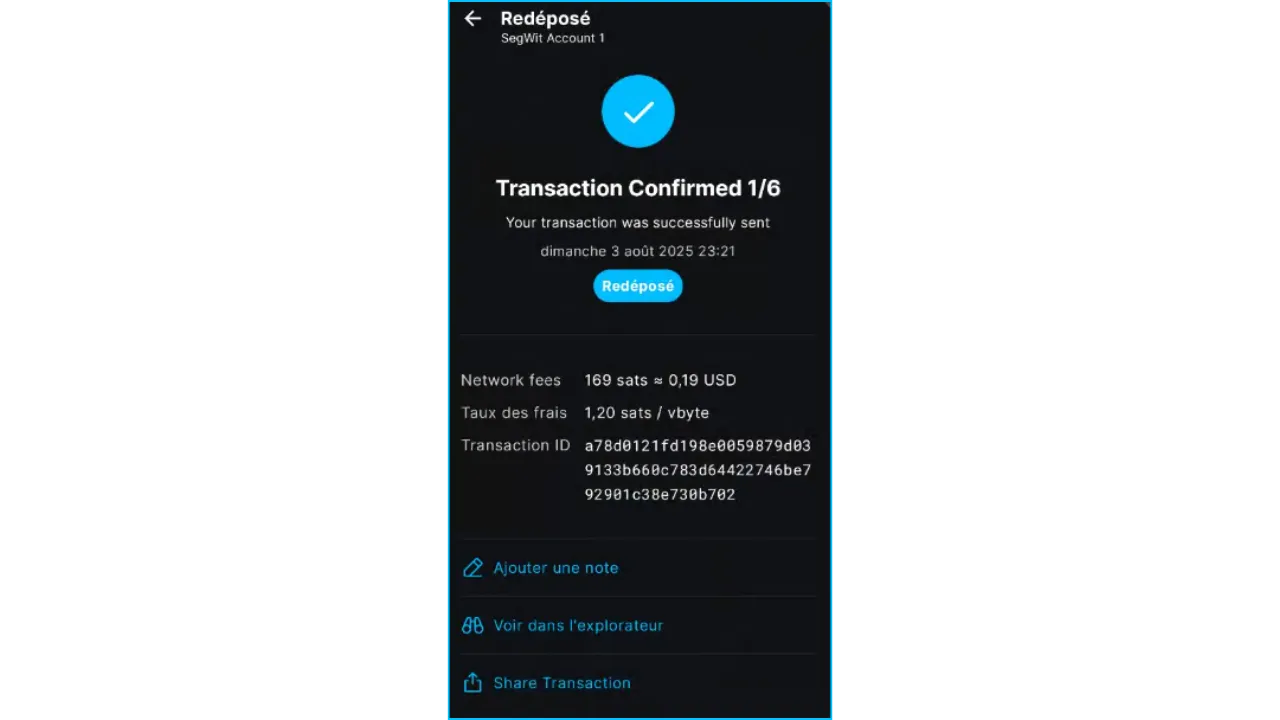
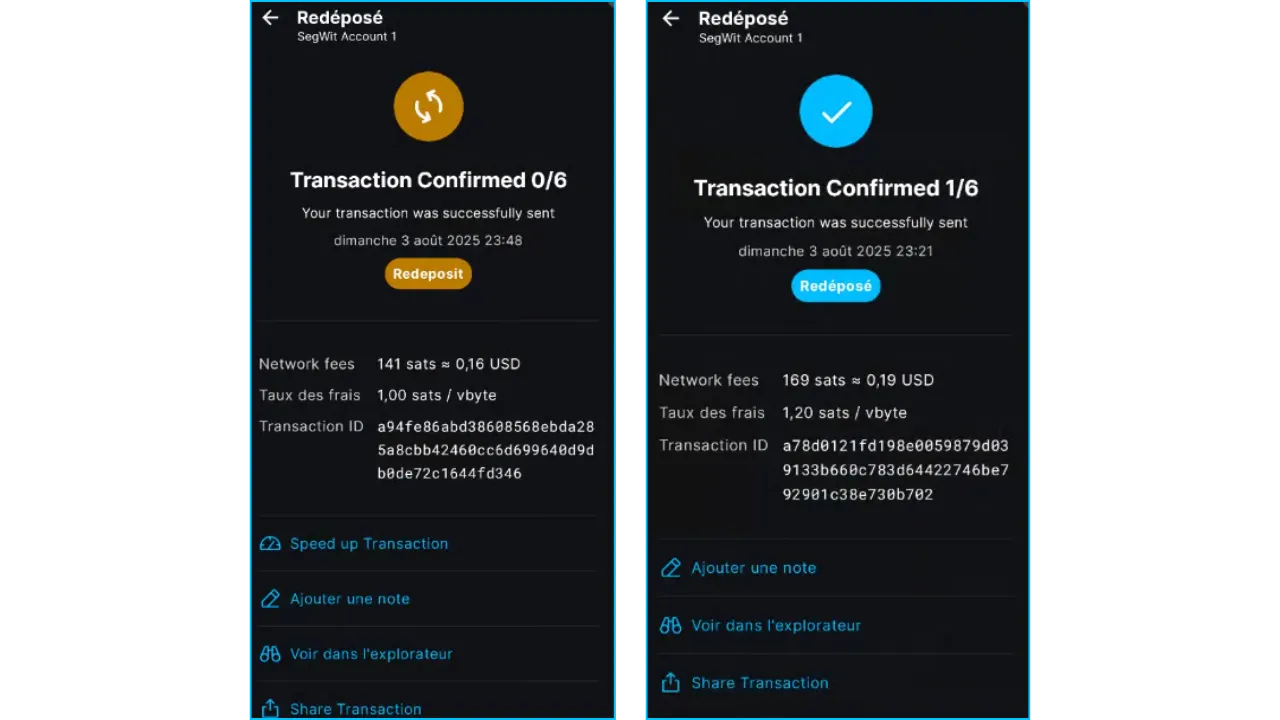
blockstream - onchain

diff --git a/tutorials/wallet/blockstream-onchain/fr.md b/tutorials/wallet/blockstream-onchain/fr.md
@@ -35,8 +35,8 @@ description: Configurer Blockstream Mobile et gérer les transactions onchain
     - Transactions sur le réseau **Liquid** (sidechain pour des échanges rapides et confidentiels).
     - Portefeuilles **watch-only** pour surveiller des fonds sans accès aux clés.
     - Options de confidentialité : connexion via **Tor**, connexion à un **nœud personnel** via Electrum, ou vérification **SPV** pour réduire la dépendance aux nœuds tiers.
-    - Fonctions avancées : **Replace-by-Fee (RBF)**, XXXXXXXXX étiquetage des transactions, et contrôle des pièces (UTXO).
-- **Compatibilité** : Intègre des hardware wallets comme **Blockstream Jade**, **Ledger Nano S/X**, et **Trezor**.
+    - Fonctions **Replace-by-Fee (RBF)** pour accélérer les transactions non confirmées.
+- **Compatibilité** : Intègre des hardware wallets comme **Blockstream Jade**.
 - **Interface** : Intuitive pour les débutants, avec des options avancées pour les experts.
 - **Note** : Ce guide se concentre sur l'utilisation onchain. D'autres tutoriels fournis en Annexes couvrent les fonctionnalités Liquid, Watch-Only, et la version desktop.
 
@@ -46,7 +46,7 @@ description: Configurer Blockstream Mobile et gérer les transactions onchain
 
 - **Pour Android** :
     - Téléchargez [Blockstream App](https://play.google.com/store/apps/details?id=com.greenaddress.greenbits_android_wallet) depuis le Google Play Store.
-    - Alternative : Installez via le fichier APK disponible sur le [GitHub officiel de Blockstream](github.com/Blockstream/green_android).
+    - Alternative : Installez via le fichier APK disponible sur le [GitHub officiel de Blockstream](https://github.com/Blockstream/green_android).
 - **Pour iOS** :
     - Téléchargez [Blockstream App](https://apps.apple.com/us/app/green-bitcoin-wallet/id1402243590) depuis l'App Store.
 - **Note** : Assurez-vous de télécharger depuis des sources officielles pour éviter les applications frauduleuses.
@@ -55,7 +55,7 @@ description: Configurer Blockstream Mobile et gérer les transactions onchain
 
 - **Écran d'accueil** : À la première ouverture, l'application affiche un écran sans portefeuille configuré. Les portefeuilles créés ou importés apparaîtront ici par la suite.
 ![image](assets/fr/02.webp)
-- **Personnalisation des paramètres** : Cliquez sur "Paramètres de l'application", ajustez les options décrites ci-dessous selon vos besoins, cliquez sur "Sauvegarder", redémarrez l’application pour appliquer les changements, puis créez votre portefeuille.
+- **Personnalisation des paramètres** : Cliquez sur "Paramètres de l'application", ajustez les options ci-dessous, cliquez sur "Sauvegarder", redémarrez l’application puis créez votre portefeuille.
 ![image](assets/fr/03.webp)
 #### 3.2.1. Confidentialité renforcée (Android uniquement)
 
@@ -89,7 +89,7 @@ description: Configurer Blockstream Mobile et gérer les transactions onchain
 - **Précaution** : Configurez votre portefeuille dans un environnement privé, sans caméras ni observateurs.
 - Depuis l’écran d’accueil, cliquez sur "Get Started" :
 ![image](assets/fr/04.webp)
-- Si vous voulez gérer un **cold wallet** (portefeuille hors ligne) : cliquez sur **"Connect Jade"** pour utiliser le hardware wallet Blockstream Jade ou d’autres cold wallets compatibles Bluetooth (Ledger, Trezor, ...). 
+- Si vous voulez gérer un **cold wallet** (portefeuille hors ligne) : cliquez sur **"Connect Jade"** pour utiliser le hardware wallet Blockstream Jade ou d’autres cold wallets compatibles. 
 ![image](assets/fr/05.webp)
 
 
@@ -104,7 +104,7 @@ description: Configurer Blockstream Mobile et gérer les transactions onchain
 Votre wallet est automatiquement créé et la page d'accueil du wallet, ici appelé "My Wallet 5", s'affiche : 
 ![image](assets/fr/07.webp)
 
-**Important** : Blockstream App a simplifié la création d'un wallet en n’affichant pas automatiquement la seed phrase de 12 mots. *Même si le porte-feuille est désormais créé en un clic, vous risquez de perdre l'accès à vos fonds si vous ne sauvegardez pas votre seed phrase*.
+**Important** : Blockstream App a simplifié la création d'un wallet en n’affichant pas automatiquement la seed phrase de 12 mots. *Même si le portefeuille est désormais créé en un clic, vous risquez de perdre l'accès à vos fonds si vous ne sauvegardez pas votre seed phrase*.
 
 ### 4.2. Sauvegarder la seed phrase
 
@@ -124,12 +124,12 @@ https://planb.network/tutorials/wallet/backup/backup-mnemonic-22c0ddfa-fb9f-4e3a
 
 https://planb.network/courses/46b0ced2-9028-4a61-8fbc-3b005ee8d70f
 
-### 4.4. Confirmer la seed phrase
+### 4.3. Confirmer la seed phrase
 
 Avant d'envoyer des fonds sur une adresse associée à cette seed phrase, vous devez impérativement tester la sauvegarde de vos 12 mots. 
 Pour cela nous allons noter une référence, supprimer le wallet, le restaurer avec la sauvegarde, et vérifier que la référence est inchangée.
 
-- Sur l'écran d'accueil du wallet, cliquez sur l'onglet "Paramètres", puis sur "Wallet Details", et copiez la zPub (clé publique étendue) :
+- Sur l'écran d'accueil du wallet, cliquez sur l'onglet "Paramètres", puis sur "Wallet Details", et copiez la zPub ([clé publique étendue](https://planb.network/fr/courses/46b0ced2-9028-4a61-8fbc-3b005ee8d70f/8dcffce1-31bd-5e0b-965b-735f5f9e4602)) :
 ![image](assets/fr/09.webp)
 Nota : une adresse zpub peut être importée dans votre application Blockstream pour la fonction "Watch Only" (voir en Annexe).
 
@@ -141,7 +141,7 @@ https://planb.network/tutorials/wallet/backup/recovery-test-5a75db51-a6a1-4338-a
 
 ### 4.5. Sécuriser l'accès à l'application
 
-Il est fortement conseillé de verrouiller l'accès à l'application par un code PIN robuste
+Verrouillez l'accès à l'application par un code PIN robuste :
 - Depuis l’écran d’accueil du wallet, allez dans **"Sécurité"** puis cliquez sur **"PIN"**
 - Saisissez et confirmez **un code PIN à 6 chiffres aléatoires**.
    
@@ -158,10 +158,10 @@ Il est fortement conseillé de verrouiller l'accès à l'application par un code
 - Depuis l’écran d’accueil du portefeuille, cliquez sur '"**Transact**" puis **"Recevoir"**.  
 ![image](assets/fr/10.webp)
 
-- L’application affiche une **adresse de réception vierge** (format SegWit v0, commençant par `bc1q...`). Recevoir des bitcoins systématiquement sur une nouvelle adresse améliore la confidentialité de votre vie privée.
+- L’application affiche une **adresse de réception vierge** (format SegWit v0, commençant par `bc1q...`). Utiliser une nouvelle adresse pour chaque réception de Bitcoin améliore votre confidentialité.
 
 - **Options** :
-    - (1) "Bitcoin" : cliquez pour sélectionner un envoi via Liquid.
+    - (1) "Bitcoin" : cliquez pour sélectionner un envoi onchain ou via Liquid, et choisir l'actif.
     - (2) Cliquez sur les flèches pour choisir une autre nouvelle adresse liée à cette seed phrase. 
     - (3) Vous pouvez aussi choisir une adresse parmi celles déjà utilisées / affichées, en cliquant sur les trois points en haut à droite puis sur "List of Adresses"
     - (4) Pour demander un montant spécifique, cliquez sur les trois points en haut à droite, sélectionnez "Montant de la demande", et saisissez le montant souhaité. Le QR sera mis à jour, et l'adresse sera remplacée par un URI de paiement Bitcoin. 
@@ -177,9 +177,9 @@ Il est fortement conseillé de verrouiller l'accès à l'application par un code
 
 - **Saisir les détails** :
     - (1) Entrez l’**adresse du destinataire** en la collant ou en scannant un QR code.
-    - (2) Vérifier l'actif et le compte à partir duquel les fonds sont envoyés.
+    - (2) Vérifiez l'actif et le compte à partir duquel les fonds sont envoyés.
     - (3) Indiquez le **montant** à envoyer. Vous pouvez choisir l'unité : BTC, satoshis, USD, ...
-      Le montant minimal au 03/08/2025 est 546 sats.
+      Le montant minimal (dush limit) au 03/08/2025 est 546 sats.
     - (4) Sélectionnez les **frais de transaction** :
         - Choisissez parmi les options suggérées (ex. : rapide, moyen, lent) selon l’urgence, une durée de transfert approximative sera affichée.
         - Pour des frais personnalisés, ajustez manuellement le nombre de satoshi par vbytes (consultez [Mempool.space](https://mempool.space/) pour les taux du marché).  
@@ -194,16 +194,39 @@ Il est fortement conseillé de verrouiller l'accès à l'application par un code
 - **Suivi** : Dans l'onglet "Transact" du wallet, la transaction apparaît comme "en attente" jusqu’à confirmation (1 à 6 confirmations) :
 ![image](assets/fr/15.webp)
 
-- Tant que la transaction n'est pas confirmée, vous pouvez augmenter sa vitesse de prise en charge en augmentant les fees : 
+- Tant que la transaction n'est pas confirmée, la fonction "Replace by fee" (voir Annexe) vous permet d'accélérer sa prise en charge en augmentant les fees de transaction : 
 ![image](assets/fr/16.webp)
 
-- Vous trouverez plus d'informations sur Replace by fees en Annexes.
 
 
 
 ## Annexes
 
-### A1. Bonnes pratiques
+### A1. Autres tutoriels Blockstream
+
+- Utilisation du réseau Liquid
+*En cours de révision*
+
+- Importer et suivre un wallet en "Watch Only"
+*En cours de révision*
+
+- Version Desktop (ordinateur)
+*En cours de révision*
+
+
+### A2. Explication de Replace-by-Fee (RBF)
+
+**Définition** : Replace-by-Fee (RBF) est une fonctionnalité du réseau Bitcoin qui permet à l'expéditeur d'accélérer la confirmation d'une transaction **onchain** en acceptant de payer des frais plus élevés.
+
+**Limites** :
+- RBF n’est pas disponible pour les transactions Liquid ou Lightning.
+* La transaction initiale doit être marquée comme RBF-compatible lors de sa création, ce que Blokstream App fait automatiquement.
+
+**Plus d'info :** 
+- [Glossaire](https://planb.network/fr/resources/glossary/rbf-replacebyfee)
+
+
+### A3. Bonnes pratiques
 
 Pour utiliser **Blockstream App** de manière sécurisée et efficace, suivez ces recommandations. Elles vous aideront à protéger vos fonds, optimiser vos transactions, et préserver votre confidentialité sur les réseaux **Bitcoin (onchain)**, **Liquid**, et **Lightning**.
 
@@ -217,33 +240,30 @@ Pour utiliser **Blockstream App** de manière sécurisée et efficace, suivez ce
 
 - **Protégez votre confidentialité** : 
 	- Générez une nouvelle adresse pour chaque réception onchain ou Liquid afin de limiter le traçage sur la blockchain.
-	- Utilisez Payjoin lorsque disponible pour augmenter la confidentialité quant au montant envoyé onchain
+	- Activez les fonctions "Confidentialité renforcée", "Tor", et "SPV".
 	- Pour une confidentialité maximale, connectez votre wallet à votre propre nœud Bitcoin via un serveur Electrum au lieu d’utiliser le nœud public 
 
 * **Choisissez le réseau adapté à vos besoins** : 
 	* **Onchain** : Privilégiez pour la conservation à long terme ou les transactions de montants élevés (frais négligeables par rapport au montant).
 	* **Liquid** : Utilisez pour des transferts rapides, à faible coût et avec une confidentialité renforcée.
-	* **Lightning** : Optez pour des transferts instantanés et très économiques pour de faibles montants. Si vous êtes deux utilisateurs du wallet Bull Bitcoin, privilégiez Liquid pour éviter les frais de swap Lightning <> Liquid via Boltz. 
-
+	* **Lightning** : Optez pour des transferts instantanés et très économiques pour de faibles montants. 
+  
 * **Vérifiez toujours les adresses d'envoi** :
 	* Avant d’envoyer des fonds, vérifiez soigneusement l’adresse. Les fonds envoyés à une mauvaise adresse sont perdus à jamais. Utilisez un copier/coller ou le scan de QR code, ne recopiez / modifiez jamais une adresse à la main. 
 
 * **Optimisez les frais** :
 	* Pour les transactions onchain, choisissez des frais adaptés (lente, moyenne, rapide) en fonction de l’urgence et de la congestion du réseau.
 	* Utilisez Liquid, ou Lightning pour les petits montants.
-	* Activez Replace-by-Fee (RBF) (voir Annexe 4) pour les envois onchain si vous anticipez un besoin d’accélérer la confirmation. 
 
 * **Tenez l'application à jour**
 
 
 ### A4. Ressources supplémentaires
 
-* **Liens officiels et support :** 
-	* **[staff@bitcoinsupport.com](mailto:staff@bitcoinsupport.com)**, support@bullbitcoin.com : email du support
-	* **[Site officiel de Bull Bitcoin](https://bullbitcoin.com/) :** Informations sur les services Bull Bitcoin, création de compte, accès à l'application
-	- **[GitHub Bull Bitcoin Mobile](https://github.com/SatoshiPortal/bullbitcoin-mobile) :** Consulter le code, les évolution et la roadmap, contribuer au développement...
-	- **[Compte X - Twitter Bull Bitcoin](https://x.com/BullBitcoin_)**
-	- **Groupe Telegram** pour le wallet mobile : chat collectif avec support, voir la page “Settings”.
+* **Liens officiels :** 
+	* **[Site officiel](https://blockstream.com/) 
+	* **[Support pour l'application mobile](https://help.blockstream.com/hc/en-us/categories/900000056183-Blockstream-Green/)** : documentation et tchat
+	- **[GitHub](https://github.com/Blockstream/green_android)
 
 * **Explorateurs de blocs :**
 	* On chain : **[Mempool.space](https://mempool.space/)**
@@ -269,14 +289,3 @@ https://planb.network/courses/6d26bcff-51a3-405f-bcdd-9af8297ce727
 
 https://planb.network/courses/34bd43ef-6683-4a5c-b239-7cb1e40a4aeb
 
-
-### A2. Explication de Replace-by-Fee (RBF)
-
-**Définition** : Replace-by-Fee (RBF) est une fonctionnalité du réseau Bitcoin qui permet à l'expéditeur d'accélérer la confirmation d'une transaction **onchain** en acceptant de payer des frais plus élevés.
-
-**Limites** :
-- RBF n’est pas disponible pour les transactions Liquid ou Lightning.
-* La transaction initiale doit être marquée comme RBF-compatible lors de sa création, ce que Bull Bitcoin Mobile fait automatiquement sauf si désactivé.
-
-**Plus d'info :** 
-- [Glossaire](https://planb.network/fr/resources/glossary/rbf-replacebyfee)
